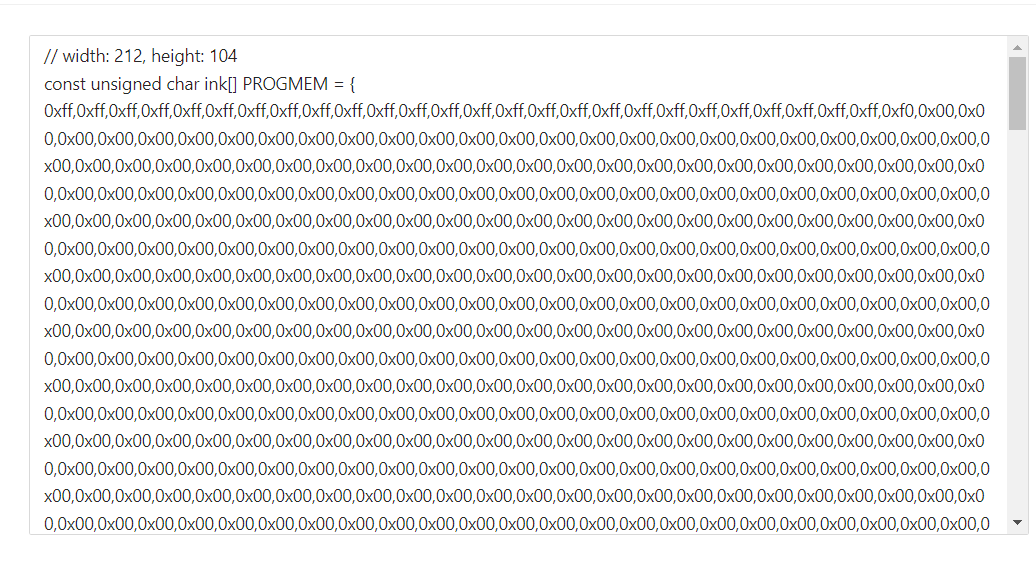
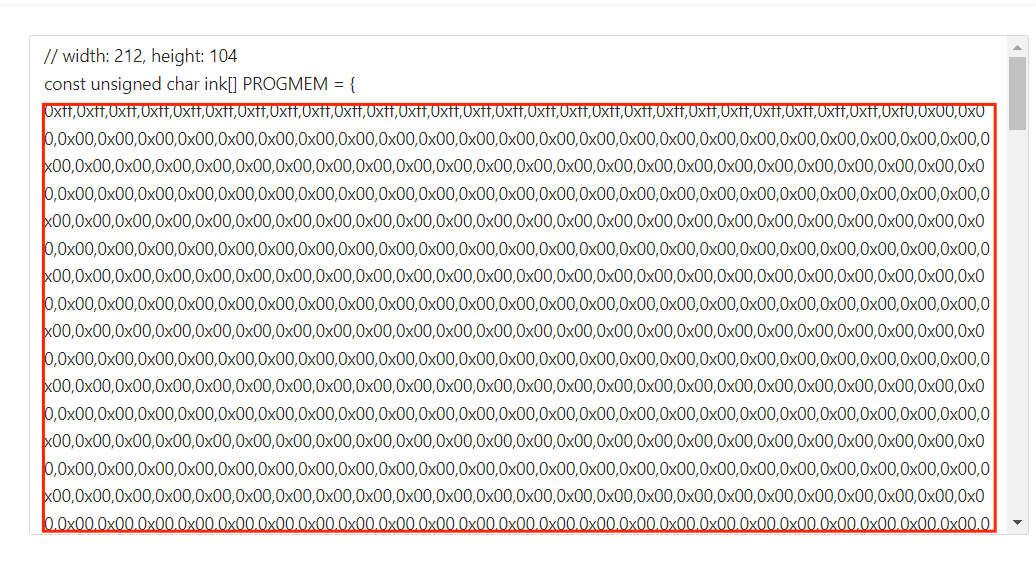
paper 1.0

Changed region(s): [[0.0309, 0.1815, 0.9884, 0.9377], [0.0309, 0.9377, 0.9575, 0.968]]

diff --git a/doc/node/esp32/source/wireless_paper/via_program_refresh.md b/doc/node/esp32/source/wireless_paper/via_program_refresh.md
@@ -7,15 +7,17 @@ This topic aims to describe refreshing the Wireless Paper by downloading the pro
 ## Image coding
 ```{Tip} This screen does not support grayscale, so when making the image, you will need to convert it to a pure black and white image smaller than 250X122.
 ```
-Using program refresh paper, you'll need a tool for image transcoding, in this case [**Convertio**](https://convertio.co/zh/xbm-converter/).
+First, convert your image to **XBM** format.
 
-+ Open **Convertio**: https://convertio.co/zh/xbm-converter/, and select the image that needs to be taken, 
+Let's use [**Convertio**](https://convertio.co/zh/xbm-converter/) as an example .
 
-![](img/10.png)
+ + Open **Convertio**: https://convertio.co/zh/xbm-converter/, and select the image that needs to be taken, Select convert to **XBM** format.
 
-+ Copy and save the code you get.
+ ![](img/10.png)
 
-![](img/02.png)
+ + Open the downloaded file with Notebook, and copy the contents in the red box.
+
+ ![](img/02.png)
 
 ## Downloading the program
 
@@ -23,16 +25,20 @@ Using program refresh paper, you'll need a tool for image transcoding, in this c
 
 + Confirm that The Heltec ESP32 development environment is installed, please refer to[ESP32+LoRa Quick start](https://docs.heltec.org/en/node/esp32/quick_start.html).
 
-Connect the Wireless Paper to the computer using a TYPE-C wire. Use Arduino IDE to open the example we provided or any other program that works, as shown below.
+Connect the Wireless Paper to the computer using a TYPE-C wire. 
+Open Arduino, in `Tools` >  `Board Manager`, select `Wireless Paper`, and select the corresponding `Port`, `LoRaWAN REGION`.
 
+![](img/tool.png)
+
+Open the sample code provided by **Heltec**.
 ```{Tip} There are currently two versions of the diplay, if the protector sticker has a red mark, please select the code 'QYEG0213RWS800_BWR'; For others, select 'HT ICMEN2R13EFC1'. If you are not sure which version you have, please contact us at Support@heltec.cn.
 ```
 
 ![](img/03.jpg)
 
-Replace the contents of `image.h` with the file **Convertio** generated earlier, as shown below.
+Replace the green box in the figure below with the code you obtained earlier.
 
-```{Tip} Be careful to fill in the data of Weight and Hight in the red box part of the figure, rather than copying this part directly.
+```{Tip} Be careful to fill in the data of Weight and Hight in the black box part of the figure, rather than copying this part directly.
 
 ```
 

diff --git a/doc/node/esp32/source/index.rst b/doc/node/esp32/source/index.rst
@@ -23,7 +23,7 @@ ESP32 is a powerfull SoC with 240MHz Tensilica LX6 dual-core & 1 ULP core, 600 D
    
     WiFi LoRa 32<wifi_lora_32/index>
     Wireless Tracker<wireless_tracker/index>
-    Wireless Paper<wireless_paper/index>
+    Wireless Paper V1.0<wireless_paper/index>
     Wireless Stick<wireless_stick/index>
     Wireless Stick Lite<wireless_stick_lite/index>
     HT-DE01<ht-de01>
